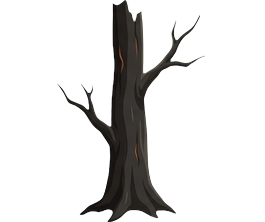
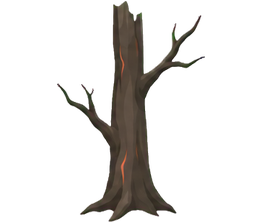
feat(art): 차원문 전투 갈라진 탄 나무에 컷페이퍼 아트 적용

Changed region(s): [[0.2113, 0.0, 0.7849, 1.0]]

diff --git a/.art/PRODUCTION-STATUS.md b/.art/PRODUCTION-STATUS.md
@@ -208,7 +208,7 @@
 | `Adventure/gate_adventure_map_stage6.png` | 클라이언트 PR (이슈 #506) | **모험 화면 검수 대기.** 5단계 지도와 같은 무광 암반을 적용했다. 길 끝의 속 빈 그루터기와 주황·보라 차원문 두 개를 유지했다. 867×256 RGB와 Stage6의 Sprite 참조를 확인했다. 비교한 가로 단면 6곳에서 길 중심 차이는 최대 2.5px이고 폭은 기존 72–75px에서 21–22px로 줄었다. |
 | `Background/Gate/background.png` | 클라이언트 PR (이슈 #510) | **플레이 검수 대기.** 차원문 5·6단계 지도와 같은 무광 암반 면을 적용하고 어두운 균열의 밀도를 줄였다. 1254×1254 RGB와 Repeat 임포트 설정을 유지했다. 양쪽 가장자리의 RGB 값이 행·열 단위로 일치하며 2×2 반복 위에 차원문 유닛 4종을 합성해 확인했다. |
 | `Background/Gate/tree_1.png` | 클라이언트 PR (이슈 #520) | **실제 경기 검수 대기.** 끝이 부러진 줄기와 기울어진 실루엣을 살린 무광 컷페이퍼 아트다. 277×242 RGBA, 기존 GUID·임포트와 알파 가로 외곽 및 바닥 높이를 유지했다. 알파 외곽의 위쪽은 3px 낮아졌다. |
-| `Background/Gate/tree_2.png` | 클라이언트 PR (이슈 #235) | **검수 대기, 자리표시 아트.** 차원문 모험(adventure 3) 전투 배경 theme 의 새 파일(`Background/Fortress/tree_2.png` 와 같은 이름·크기). 265x222 RGBA, 가지 둘 달린 탄 줄기. `GateBattleTheme.asset` 이 참조하고 `GateAdventure.asset` 의 `battleTheme` 이 이 asset 을 가리킨다. `agy` 생성, 초록 배경 key 제거. Editor 미검증 |
+| `Background/Gate/tree_2.png` | 클라이언트 PR (이슈 #519) | **실제 경기 검수 대기.** 양쪽으로 갈라지는 가지와 그을린 줄기을 살린 무광 컷페이퍼 아트다. 265×222 RGBA, 기존 GUID·임포트와 알파 가로 외곽 및 바닥 높이를 유지했다. 알파 외곽의 위쪽은 1px 낮아졌다. |
 | `Background/Gate/tree_3.png` | 클라이언트 PR (이슈 #515) | **실제 경기 검수 대기.** 차원문 6단계 지도와 맞춘 무광 그루터기다. 열린 윗부분과 돌출된 뿌리, 어두운 주황 균열을 남겼다. 234×218, PPU 100, 하단 중앙 피벗. 알파 바닥선은 기존과 같고 외곽 폭은 207px에서 201px로 줄었다. |
 | `Background/Gate/tree_4.png` | 클라이언트 PR (이슈 #235) | **검수 대기, 자리표시 아트.** 차원문 모험(adventure 3) 전투 배경 theme 의 새 파일(`Background/Fortress/tree_4.png` 와 같은 이름·크기). 328x264 RGBA, 굽은 가지가 달린 굵은 탄 줄기. `GateBattleTheme.asset` 이 참조하고 `GateAdventure.asset` 의 `battleTheme` 이 이 asset 을 가리킨다. `agy` 생성, 초록 배경 key 제거. Editor 미검증 |
 | `Background/Gate/rock.png` | 클라이언트 PR (이슈 #235) | **검수 대기, 자리표시 아트.** 차원문 모험(adventure 3) 전투 배경 theme 의 새 파일(`Background/Fortress/rock.png` 와 같은 이름·크기). 452x166 RGBA, 불씨 금이 간 현무암 더미. `GateBattleTheme.asset` 이 참조하고 `GateAdventure.asset` 의 `battleTheme` 이 이 asset 을 가리킨다. `agy` 생성, 초록 배경 key 제거. Editor 미검증 |
